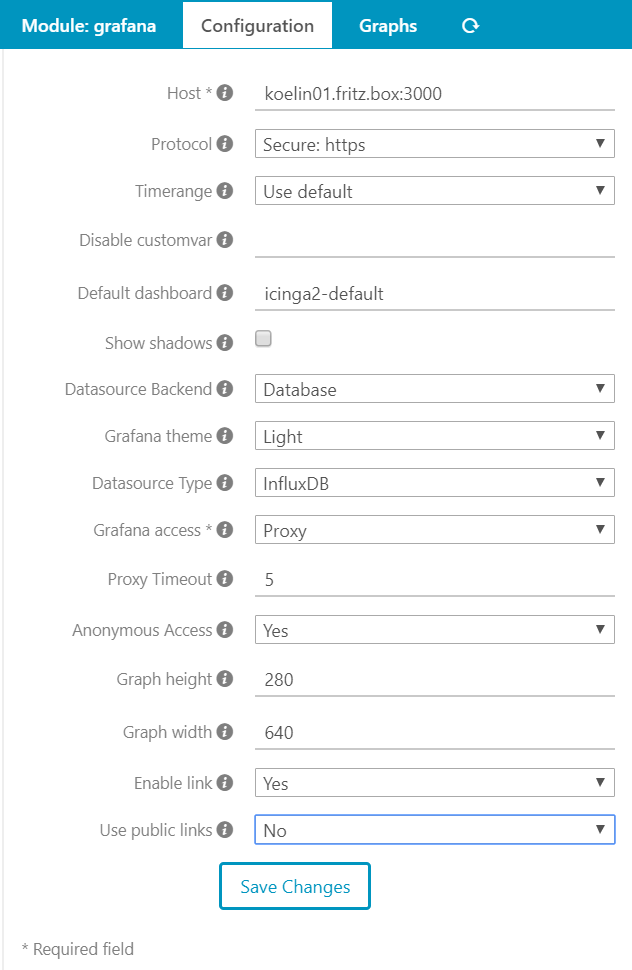
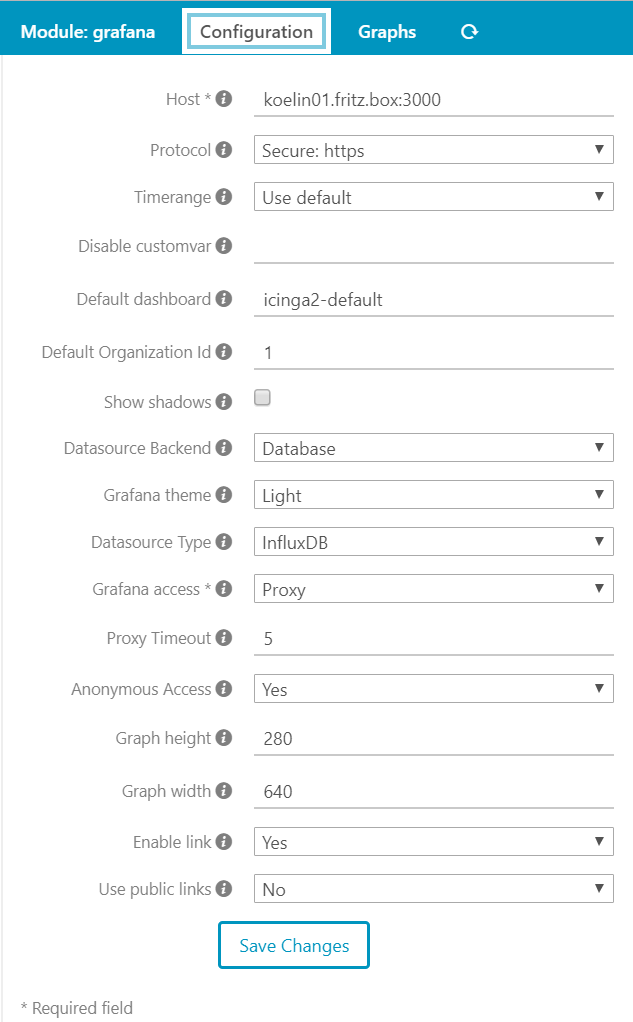
Minor changes to #79 and doc updates

diff --git a/application/forms/Config/GeneralConfigForm.php b/application/forms/Config/GeneralConfigForm.php
@@ -88,7 +88,7 @@ class GeneralConfigForm extends ConfigForm
             )
         );
         $this->addElement(
-            'text',
+            'number',
             'grafana_defaultorgid',
             array(
                 'value' => '1',

diff --git a/application/forms/Graph/GraphForm.php b/application/forms/Graph/GraphForm.php
@@ -66,7 +66,7 @@ class GraphForm extends ConfigForm
         );
 
         $this->addElement(
-            'text',
+            'number',
             'orgId',
             array(
                 'placeholder'   => 'example 1 ...',

diff --git a/doc/03-module-configuration.md b/doc/03-module-configuration.md
@@ -37,6 +37,7 @@ height = "280"
 width = "640"
 timerange = "3h"
 enableLink = "yes"
+defaultorgid = "1"
 defaultdashboard = "icinga2-default"
 shadows = "1"
 datasource = "influxdb"
@@ -65,6 +66,7 @@ custvardisable = "idontwanttoseeagraph"
 |datasource         | **Required.** Type of the Grafana datasource (`influxdb`, `graphite` or `pnp`). Defaults to `influxdb`.|
 |defaultdashboard   | **Required.** Name of the default dashboard which will be shown for unconfigured graphs. Set to `none` to hide the module output. **Important: `panelID` must be set to `1`!** Defaults to `icinga2-default`.|
 |shadows            | **Optional.** Show shadows around the graphs. ** Defaults to `false`.|
+|defaultorgid       | **Required.** Number of the default organization id where dashboards are located. Defaults to `1`.
 |defaultdashboardstore | **Optional.** Grafana backend (file or database). Defaults to `Database`.|
 |accessmode         | **Optional.** Controls whether graphs are fetched with curl (`proxy`), are embedded (`direct`) or in iframe ('iframe'). Direct access is faster and needs `auth.anonymous` enabled in Grafana. Defaults to `proxy`.|
 |timeout            | **Proxy only** **Optional.** Timeout in seconds for proxy mode to fetch images. Defaults to `5`.|
@@ -106,6 +108,10 @@ Enable or disable the graphs as a link to the Grafana Server.
 
 ### datasource
 The datasource that Grafana server uses. Can be InfluxDB, Graphite and PNP (untested).
+
+### defaultorgid
+Number of the default organization id where dashboards are located. Defaults to `1`.
+You can fetch the id if you browse to your grafana server menu -> Admin -> Global Orgs
 
 ### defaultdashbaord
 The name of the default dashboard that is used when no service/host graph s configured.

diff --git a/README.md b/README.md
@@ -95,7 +95,7 @@ timerange          | **Optional.** Global time range for graphs. Defaults to `6h
 enableLink         | **Optional.** Enable/disable graph with a rendered URL to the Grafana dashboard. Defaults to `yes`.
 datasource         | **Required.** Type of the Grafana datasource (`influxdb`, `graphite` or `pnp`). Defaults to `influxdb`.
 defaultdashboard   | **Required.** Name of the default dashboard which will be shown for unconfigured graphs. Set to `none` to hide the module output. **Important: `panelID` must be set to `1`!** Defaults to `icinga2-default`.
-defaultorgid       | **Required.** Name of the default organization id where dashboards are located. Defaults to `1`.
+defaultorgid       | **Required.** Number of the default organization id where dashboards are located. Defaults to `1`.
 shadows            | **Optional.** Show shadows around the graphs. ** Defaults to `false`.
 defaultdashboardstore | **Optional.** Grafana backend (file or database). Defaults to `Database`.
 accessmode         | **Optional.** Controls whether graphs are fetched with curl (`proxy`), are embedded (`direct`) or in iframe ('iframe'. Direct access is faster and needs `auth.anonymous` enabled in Grafana. Defaults to `proxy`.
@@ -125,6 +125,7 @@ height = "280"
 width = "640"
 timerange = "3h"
 enableLink = "yes"
+defaultorgid = "1"
 defaultdashboard = "icinga2-default"
 shadows = "1"
 datasource = "influxdb"
